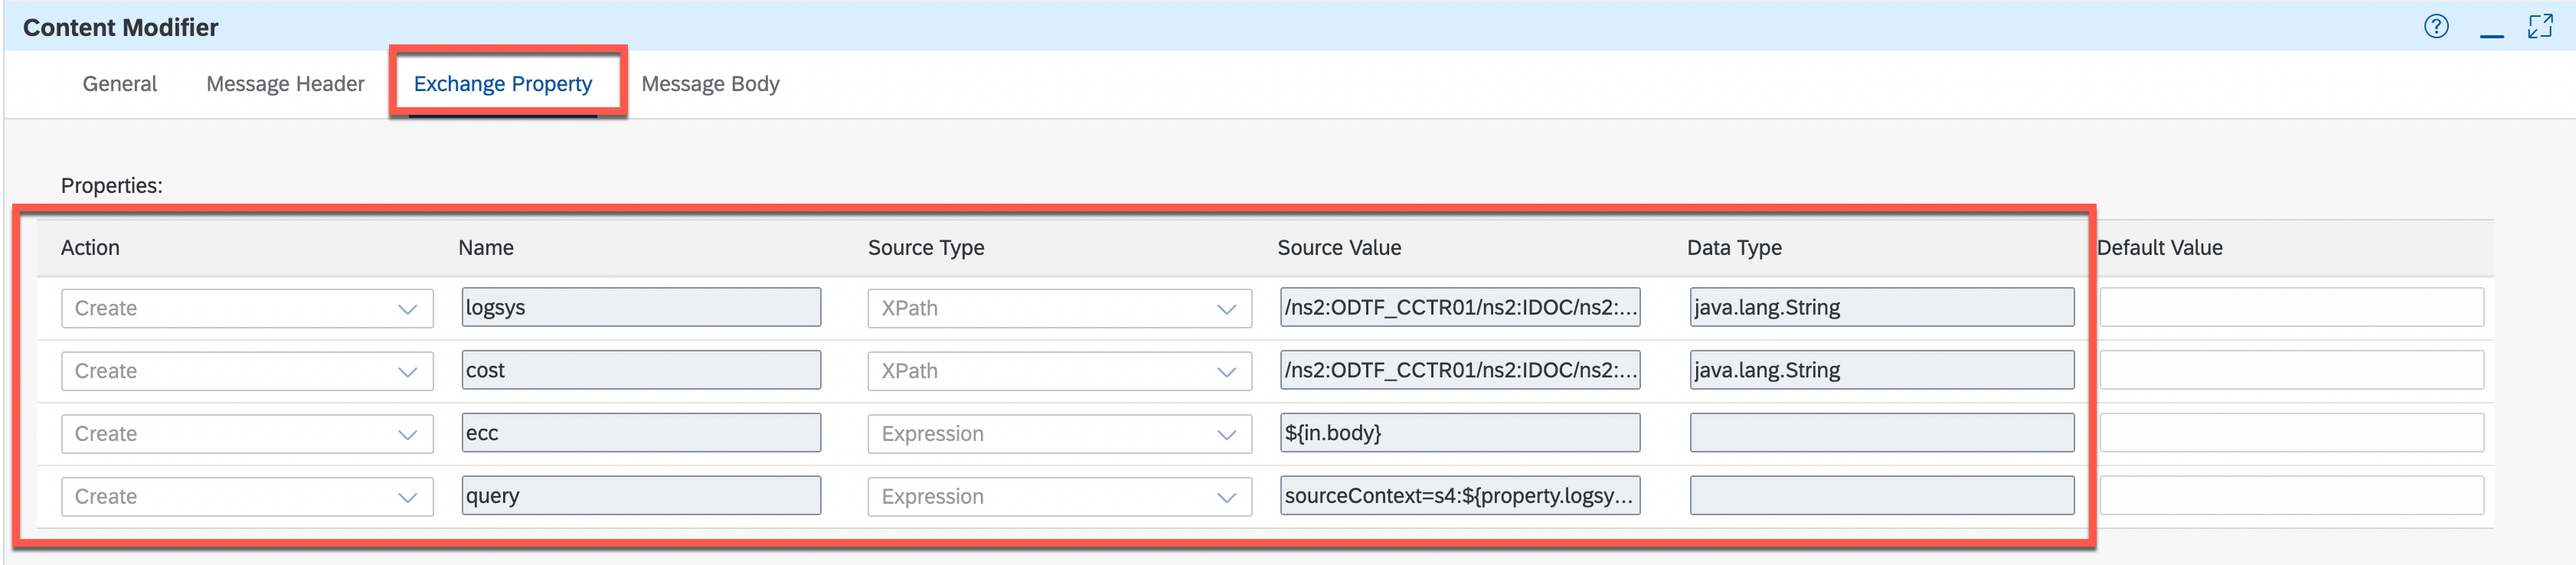
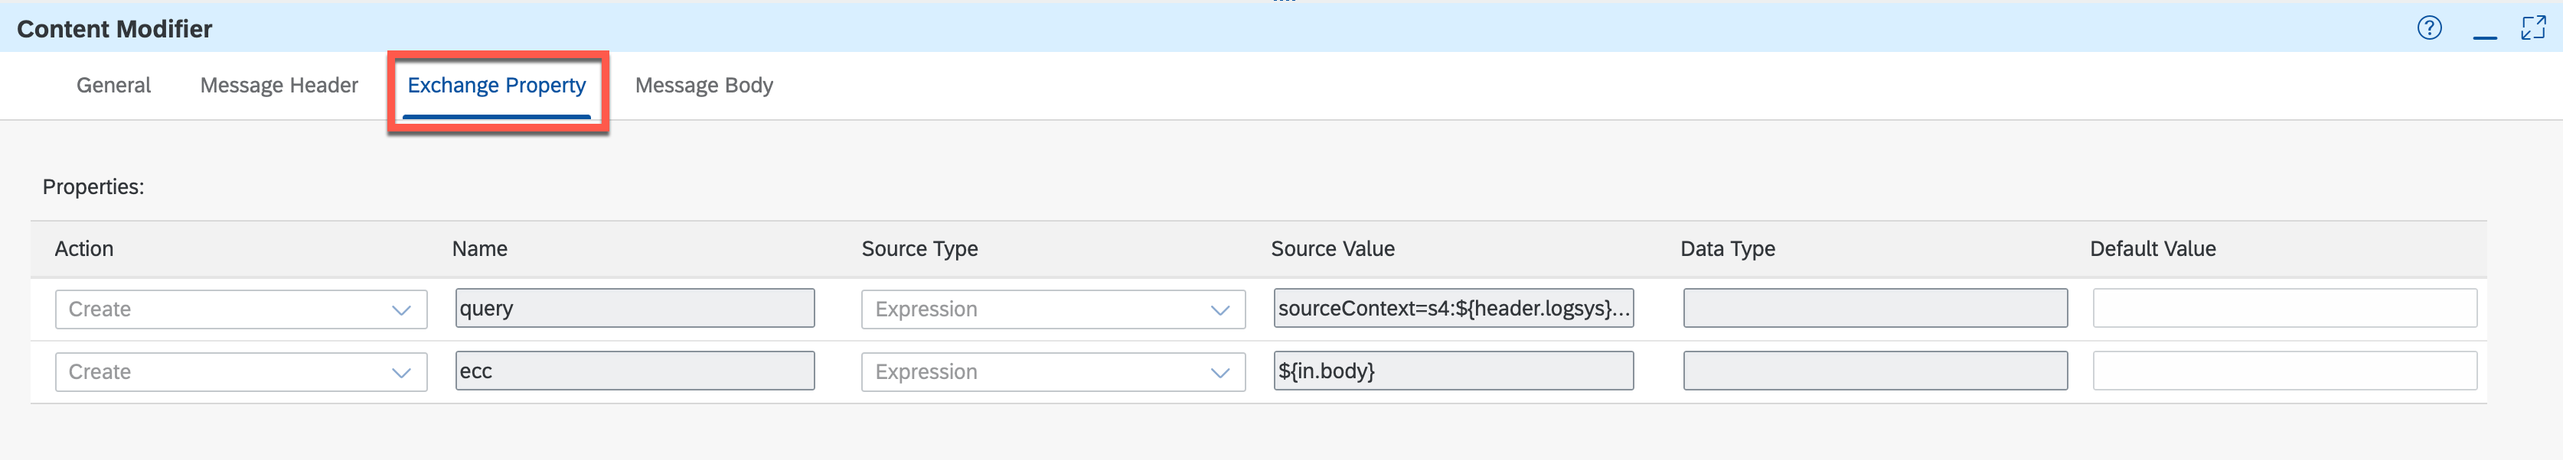
cpi

diff --git a/documentation/implement/cpi/README.md b/documentation/implement/cpi/README.md
@@ -66,36 +66,73 @@ An integration flow should be associated with an integration package. Here we wi
 
 	![cpi](./images/cpi-add.png)
 
-7. In the **Add Integration Flow** dialog:
-	1. In the **Name** field, enter **iflow for cost center replication**
-	2. Choose **OK**
+## 3. Add Integration Flow(iFlow)
+
+You use this procedure to create an integration flow for enabling communication between two heterogeneous applications or systems. The integration flow is a graphical model that consists of endpoints (systems, interfaces and channels) and flowsteps (activities that enable integration). When you create an integration flow, a corresponding integrated configuration is created in the Integration Directory. 
+
+Here you can either **import our ready made iFlow** and skip all the below steps of manual creation or else **follow the manual iflow creation** for your learning.
+
+### Import Ready Made iFlow**
+
+Download the **Master.Data.Synchornization.Between.SAP.and.Legacy.System.using.SAP.Cloud.Integration.zip** file from [Releases](https://github.com/SAP-samples/cloud-mdi-integration/releases/tag/v1.0.0-alpha) and save into your local file.
+
+1. In the **Add Integration Flow** dialog:
+    1. Choose **Import**
+	2. In the **Integration Flow** field, choose **Browse**
+	3. Choose **Master.Data.Synchornization.Between.SAP.and.Legacy.System.using.SAP.Cloud.Integration.zip** from local file.
+	4. Choose **OK**
+
+	![cpi](./images/cpi-import-iflow.png)
+
+2. Choose **Actions** and then choose **Configure**
+
+	![cpi](./images/cpi-iflow-configure.png)
+
+3. In the **<MDIURI>** field, enter MDI URI you get from service key.
+
+	![cpi](./images/cpi-mdi-key.png)
+
+4. Choose **Deploy**
+
+	![cpi](./images/cpi-iflow-mdi.png)
+
+5. Once the deployment is done, skip all the below steps and directy jump to section 14 **Get the EndPoint of Deployed iflow** .
+
+### Manual Create iFlow**
+
+Here you will create iflow from scratch which will help you in much more better understanding of implementation.
+
+1. In the **Add Integration Flow** dialog:
+    1. Choose **Create**
+	2. In the **Name** field, enter **iflow for cost center replication**
+	3. Choose **OK**
 
 	![cpi](./images/cpi-add-iflow.png)
 
-8. Choose your new integration flow **iflow for cost center replicatio** to enter the integration flow editor.
+2. Choose your new integration flow **iflow for cost center replicatio** to enter the integration flow editor.
 
 	![cpi](./images/cpi-add-editor.png)
 
-9. Within the integration flow editor, switch to the Edit mode by chossing button **Edit** on the top right
+3. Within the integration flow editor, switch to the Edit mode by chossing button **Edit** on the top right
 
 	![cpi](./images/cpi-iflow-edit.png)
 
-10. To have enough space for modeling the integration flow steps, we will rearrange and resize the components
+4. To have enough space for modeling the integration flow steps, we will rearrange and resize the components
 	1. First, select the **Receiver** box and place it below the main process pool.
 	2. Then, select the right edge of the **Integration Process** box and pull it further right to make the box wider.
 	3. Finally, drag and drop the **End Message event** further right so that the whole integration flow stub looks like in the picture below.
 
 	![cpi](./images/cpi-iflow-size.png)
 
-11. In the properties of the **Sender** connection:
+5. In the properties of the **Sender** connection:
 	- In the **Name** field, Enter **ECC**
 
-12. In the properties of the **Receiver** connection:
+6. In the properties of the **Receiver** connection:
 	- In the **Name** field, Enter **MDI**
 
 	![cpi](./images/cpi-iflow-rename.png)
 
-## 3. Maintain the connection to your IDoc
+## 4. Maintain the connection to your IDoc
 
 The IDoc adapter enables SAP Cloud Integration to exchange Intermediate Document (IDoc) messages with systems that support communication via SOAP Web services. Here we will integrate IDoc Adaptor which act an in incoming channel for cost center from SAP ECC.
 
@@ -114,7 +151,7 @@ The IDoc adapter enables SAP Cloud Integration to exchange Intermediate Document
 
 4. Choose **Save**.
 
-## 4. Maintain the Content Modifier
+## 5. Maintain the Content Modifier
 
 The Content Modifier allows you to modify a message by changing the content of the data containers that are involved in message processing (message header, message body, or message exchange). In this section, we will set cost center, key-mapping queries, incoming payload and modify the data accordingly.
 
@@ -131,7 +168,7 @@ The Content Modifier allows you to modify a message by changing the content of t
 4. In the properties of the **Content Modifier**, switch to tab **General**.
 	1. In the **Name Field**, Enter **Content Modifier**.
 
-5. In the properties of the **Content Modifier**, switch to tab **Exchange Modifier**.
+5. In the properties of the **Content Modifier**, switch to tab **Message Header**.
 	1. Choose **Add**.
 	2. Add below property:
 
@@ -139,12 +176,21 @@ The Content Modifier allows you to modify a message by changing the content of t
 		| ----------- | ----------- |  ----------- |  ----------- |  ----------- | 
 		| **Create** | **logsys**  | **XPath** | **/ns2:ODTF_CCTR01/ns2:IDOC/ns2:E101ODTF_S_COST_CENTER_REPL/ns2:BUS_DOC_BS_IDOC_LOG_SYS_ID** |  **java.lang.String** | 
 		| **Create** | **cost** | **XPath** | **/ns2:ODTF_CCTR01/ns2:IDOC/ns2:E101ODTF_S_COST_CENTER_REPL/ns2:E101ODTF_S_COST_CENTER_DATA/ns2:REMOTE_EXTERNAL_OBJECT_ID** | **java.lang.String** | 
+
+![cpi](./images/cpi-content-header.png)
+
+6. In the properties of the **Content Modifier**, switch to tab **Exchange Modifier**.
+	1. Choose **Add**.
+	2. Add below property:
+
+		| **Action**    |  **Name** | **Source Type** |**Source Value** | **Data Type** |
+		| ----------- | ----------- |  ----------- |  ----------- |  ----------- | 
 		| **Create** | **ecc** | **Expression** |  **${in.body}** |  | 
-		| **Create** | **query** | **Expression** | **sourceContext=s4:${property.logsys}:sap.oitc.888&sourceKey=${property.cost}&targetContext=mdi:instanceId** |  | 
+		| **Create** | **query** | **Expression** | **sourceContext=s4:${header.logsys}:sap.oitc.888&sourceKey=${header.cost}&targetContext=mdi:instanceId** |  | 
 
 ![cpi](./images/cpi-content-exchg.png)
 
-6. In the properties of the **Content Modifier**, switch to tab **Message Body**. 
+7. In the properties of the **Content Modifier**, switch to tab **Message Body**. 
 	1. In the **Type** dropdown, choose **Expression**.
 	2. In the **Body** field, enter below:
 
@@ -157,9 +203,9 @@ The Content Modifier allows you to modify a message by changing the content of t
 
 	![cpi](./images/cpi-content1-msg.png)
 
-7. Choose **Save**.
+8. Choose **Save**.
 		
-## 5. Maintain the Request Reply
+## 6. Maintain the Request Reply
 
 Certain integration scenarios might require that the Cloud Integration tenant communicates with an external service, retrieves data from it, and further processes the data. In such cases, you can use the request reply step as an exit to connect to the external service.
 
@@ -180,7 +226,7 @@ Certain integration scenarios might require that the Cloud Integration tenant co
 4. Choose **Save**.
 
 
-## 6. Maintain the connection to your HTTP Adaptor
+## 7. Maintain the connection to your HTTP Adaptor
 
 Use the HTTP receiver adapter to communicate with SAP Master Data Integration using HTTP message protocol.
 
@@ -205,7 +251,7 @@ Use the HTTP receiver adapter to communicate with SAP Master Data Integration us
 
 4. Choose **Save**.
 
-## 7. Maintain the Groovy Script to Set Header of ID.
+## 8. Maintain the Groovy Script to Set Header of ID.
 
 1. If you select the Request Reply **Key - Mapping MDI** of the Integration Process pool, the quick menu appears. Select the **Plus** icon of the quick menu.
 
@@ -241,7 +287,7 @@ Use the HTTP receiver adapter to communicate with SAP Master Data Integration us
 
 6. Choose **Save**.
 
-## 8. Maintain the Content Modifier
+## 9. Maintain the Content Modifier
 
 1. If you select the **Set Header for MDI Instance ID** Script in Integration Process pool, the quick menu appears. Choose the **Plus** icon of the quick menu.
 
@@ -278,7 +324,7 @@ Use the HTTP receiver adapter to communicate with SAP Master Data Integration us
 
 7. Choose **Save**.
 
-## 9. Maintain the Message Mapping
+## 10. Maintain the Message Mapping
 
 In the following, we need to map to the format that is required to trigger the Master Data Integration. For your convenience, we have provided a reusable message mapping artifact which maps the XML format of the SAP ECC IDoc to the JSON format of the SAP MDI. 
 
@@ -320,7 +366,7 @@ In the following, we need to map to the format that is required to trigger the M
 
 10. Choose **Save**.
 
-## 10. Maintain the Request Reply
+## 11. Maintain the Request Reply
 
 1. If you select the Message Mapping **Mapping Cost Center Fields** of the Integration Process pool, the quick menu appears. Choose the **Plus** icon of the quick menu.
 
@@ -336,7 +382,7 @@ In the following, we need to map to the format that is required to trigger the M
 
 4. Choose **Save**.
 
-## 11. Maintain the connection to your MDI Adaptor
+## 12. Maintain the connection to your MDI Adaptor
 
 We will use SAP Master Data Integration (MDI) receiver adapter to synchronize your master data from SAP applications like SAP ECC and other third-party applications with SAP MDI service.
 
@@ -357,7 +403,7 @@ We will use SAP Master Data Integration (MDI) receiver adapter to synchronize yo
 
 	![cpi](./images/cpi-mdi-conn.png)
 
-3. In the properties of the **MDI** connection, switch to tab **Processing**
+4. In the properties of the **MDI** connection, switch to tab **Processing**
 	1. In the **Operation** field, enter **ForcePatch**
 	2. In the **Change Token Prefix** field, enter **CPIMD**
 	3. In the **Retry Interval (in seconds)** dropdown, choose **05**
@@ -367,16 +413,55 @@ We will use SAP Master Data Integration (MDI) receiver adapter to synchronize yo
 
 		| **Application** |  **Tenant** | **Type** |**Additional Context** | **LocalId** | **Status** | **LocalId Source** |
 		| ----------- | ----------- |  ----------- |  ----------- | ----------- | ----------- | ----------- | 
-		| **s4** | **S4ACLNT000**  | **sap.odm.finance.costobject.CostCenter** | **sap.oitc.888** |  **${property.cost}** | **active** | **Property** |
+		| **s4** | **S4ACLNT000**  | **sap.odm.finance.costobject.CostCenter** | **sap.oitc.888** |  **${header.cost}** | **active** | **Property** |
 
 
 ![cpi](./images/cpi-mdi-process.png)
 
-4. Choose **Save**.
+5. Choose **Save**.
 
-5. Your final layour look below:
+## 12 . Add Exception Subprocess
+
+1.  From the quick menu, choose the **Process** icon and then choose **Exception Subprocess**
+
+	![cpi](./images/cpi-mdi-exception.png)
+
+2. Drag it on the Editor.
+
+3. Choose **Save**.
+
+4. Your final layour look below:
 
 	![cpi](./images/cpi-mdi-final.png)
+
+## 13. Deploy the iflow
+
+1. Within the integration flow editor , Choose **Deploy**.
+
+	![cpi](./images/cpi-mdi-deploy.png)
+
+2. You will get a popup for confirmation. Choose **Yes**.
+
+	![cpi](./images/cpi-mdi-confirm.png)
+
+3. You will get a confirmation message that deployment is success.
+
+## 14. Get the EndPoint of Deployed iflow
+
+Onc your iflow is deployed, you will get a deployed URL, which we be later using while configuring backend.
+
+1. Expand the Navigation pane and switch to the **Monitor > Integrations**
+
+	![cpi](./images/cpi-mon.png)
+
+2. In the **Manage Integration Content**, choose the tile which is started.
+
+	![cpi](./images/cpi-mon-start.png)
+
+3. Copy the Endpoint which we be later using while configuring backend.
+
+	![cpi](./images/cpi-mon-endpoint.png)
+
 
 
 

diff --git a/documentation/discover/sap-integration-suite/README.md b/documentation/discover/sap-integration-suite/README.md
@@ -8,8 +8,6 @@ The SAP Integration Suite comprises of four main capabilities:
 * (Open Connectors - simplify non-SAP connectivity with ~160 connectors
 * Integration Advisor - accelerate interface design with the help of machine learning capabilities 
 
-Check out this [YouTube playlist](https://www.youtube.com/watch?v=Asc4-F0vEWU&list=PLkzo92owKnVy5gfh9etKt_TLkc-dM2l7t) on SAP Integration Suite.
-
 For more information, see:
 * [Enterprise Integration Platform as a Service (EiPaaS)](https://www.sap.com/products/integration-suite.html)
 * [SAP Integration Suite community page](https://community.sap.com/topics/integration-suite)

diff --git a/documentation/discover/sap-mater-data-integration/README.md b/documentation/discover/sap-mater-data-integration/README.md
@@ -15,4 +15,4 @@ SAP Master Data Integration is a multi-tenant cloud service for master data inte
 * Multi-version Support - Data is shared between compatible versions of entity types in SAP One Domain Model, that is, an instance can be written or updated with a lower version and read with a compatible higher version and vice versa.
 
 For more information, see:
-* [SAP Master Data Integration Documentation)](https://help.sap.com/docs/SAP_MASTER_DATA_INTEGRATION)
+* [SAP Master Data Integration Documentation](https://help.sap.com/docs/SAP_MASTER_DATA_INTEGRATION)

diff --git a/documentation/setup/mdi/README.md b/documentation/setup/mdi/README.md
@@ -24,11 +24,12 @@ To connect a client to a tenant of Master Data Integration service, create a ser
     ```json
         {
         "enableTenantDeletion": true,
-        "writePermissions": [
-            {
-            "entityType": "sap.odm.finance.costobject.CostCenter"
-            }
-        ]
+        "writePermissions": 
+            [
+                {
+                "entityType": "sap.odm.finance.costobject.CostCenter"
+                }
+            ]
         }
     ```
     8. Choose **Create**.
